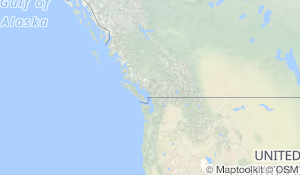
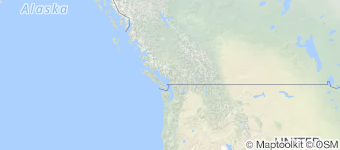
Styling done. Starting window functionalities.

diff --git a/data/styles.css b/data/styles.css
@@ -1,3 +1,5 @@
+/* technically a .qss file not a .css file, but I need the intellisense */
+
 * {
     background-color:#66a1ff;
     color: #2e2e3b;
@@ -19,20 +21,11 @@ QScrollArea QWidget {
     background-color: #f0eff4;
 }
 
-
 QLabel#title {
     background-color: #f0eff4;
     border-radius: 15px;
 }
 
 QLabel#map {
-    padding: 10px;
-    background-color: #f0eff4;
-
-    border-radius: 30px;
-    border: 1px solid;
-}
-
-QLabel#chart {
-    border: 1px solid;
+    padding: 0px;
 }

diff --git a/scripts/main.py b/scripts/main.py
@@ -1,5 +1,6 @@
+import typing
 from PyQt6.QtWidgets import (QWidget, QLabel, QScrollArea, QApplication,
-                             QHBoxLayout, QVBoxLayout, QMainWindow)
+                             QHBoxLayout, QVBoxLayout, QMainWindow, QStackedWidget)
 from PyQt6.QtGui import QFont, QFontDatabase, QImage, QPixmap
 from PyQt6.QtCore import Qt
 import sys
@@ -29,6 +30,8 @@ class ResortsMenuWindow(QMainWindow):
         self.unselected_prefix = "    "
 
         self.create_gui(resorts)
+
+        self.on_scroll_update_resort(0)
 
     def create_gui(self, resorts: list[str]) -> None:
         if sys.platform == 'win32':
@@ -104,6 +107,9 @@ class ResortsMenuWindow(QMainWindow):
 
         return self.resort_labels[resort_index]
     
+    def get_selected_resort(self) -> str:
+        return self.selected_resort.text()[len(self.unselected_prefix):]
+    
 class ResortInfoWindow(QMainWindow):
     def __init__(self):
         super().__init__()
@@ -153,15 +159,31 @@ class ResortInfoWindow(QMainWindow):
         info_panel.addWidget(self.temperature_peak_min)
         info_panel.addWidget(self.temperature_peak_max)
 
-        self.trails_chart = QLabel("Trails")
+        self.trails_label = QLabel("% Trails")
+        self.trails_label.setFont(QFont(self.snowman_font, 20))
+        self.trails_label.setAlignment(Qt.AlignmentFlag.AlignCenter)
+        self.trails_chart = QLabel()
         self.trails_chart.setObjectName("chart")
-        self.trails_chart.setPixmap(QPixmap('data/image.png').scaled(200, 200))
-        self.chairs_chart = QLabel("Lifts")
+        self.trails_chart.setPixmap(QPixmap('data/image.png'))
+        self.trails_chart.setAlignment(Qt.AlignmentFlag.AlignCenter)
+        trails = QVBoxLayout()
+        trails.addWidget(self.trails_label)
+        trails.addWidget(self.trails_chart)
+
+        self.chairs_label = QLabel("% Lifts")
+        self.chairs_label.setFont(QFont(self.snowman_font, 20))
+        self.chairs_label.setAlignment(Qt.AlignmentFlag.AlignCenter)
+        self.chairs_chart = QLabel()
         self.chairs_chart.setObjectName("chart")
-        self.chairs_chart.setPixmap(QPixmap('data/image.png').scaled(200, 200))
+        self.chairs_chart.setPixmap(QPixmap('data/image.png'))
+        self.chairs_chart.setAlignment(Qt.AlignmentFlag.AlignCenter)
+        chairs = QVBoxLayout()
+        chairs.addWidget(self.chairs_label)
+        chairs.addWidget(self.chairs_chart)
+
         charts_hbox = QHBoxLayout()
-        charts_hbox.addWidget(self.trails_chart)
-        charts_hbox.addWidget(self.chairs_chart)
+        charts_hbox.addLayout(trails)
+        charts_hbox.addLayout(chairs)
 
         self.resort_map = QLabel()
         self.resort_map.setObjectName("map")
@@ -183,15 +205,39 @@ class ResortInfoWindow(QMainWindow):
         all_widget = QWidget()
         all_widget.setLayout(all_layout)
         self.setCentralWidget(all_widget)
+
+    def update_info(self, resort):
+        pass
         
+class Screen(QStackedWidget):
+    def __init__(self) -> None:
+        super().__init__()
+
+        self.resorts_menu = ResortsMenuWindow(resorts=resorts)
+        self.resort_info = ResortInfoWindow()
+        self.addWidget(self.resorts_menu)
+        self.addWidget(self.resort_info)
+
+        self.setCurrentWidget(self.resorts_menu)
+
+    def keyPressEvent(self, event):
+        super(Screen, self).keyPressEvent(event)
+
+        if self.currentWidget() is self.resorts_menu:
+            resort = self.resorts_menu.get_selected_resort()
+            self.setCurrentWidget(self.resort_info)
+            self.resort_info.update_info(resort)
+        else:
+            self.setCurrentWidget(self.resorts_menu)
+
+
 if __name__ == '__main__':
     with open('data/favorite_resorts.json') as f:
         resorts = json.load(f)['data']
     
     app = QApplication(sys.argv)
-    # window = ResortsMenuWindow(resorts=resorts)
-    window = ResortInfoWindow()
-    window.show()
 
+    screen = Screen()
+    screen.show()
 
     sys.exit(app.exec())

diff --git a/scripts/pie.py b/scripts/pie.py
@@ -1,3 +1,4 @@
+from PIL import Image
 import requests
 import dotenv
 import os
@@ -6,21 +7,23 @@ dotenv.load_dotenv()
 
 BASE_URI = "https://24hourcharts.p.rapidapi.com/v1/charts/png"
 
+CHART_SIZE = (500, 500)
+
 API_KEYS = [ # multiple so I'm not restricted to only 10 a day
     os.getenv("API_KEY_1"),
     os.getenv("API_KEY_2"),
     os.getenv("API_KEY_3"),
 ]
 
-def request_chart(size: int, percent_open: float):
+def request_chart(percent_open: float, file: str):
     chart_data = {
         "type": 'pie',
         "title": ' ', # f'Lifts: {int(percent_open * 100)}% Open',
         "showLegend": False,
         "datasets": [{ 'values': [f'{percent_open}', f'{1 - percent_open}'] }],
         "output": {
-            "width": size,
-            "height": size
+            "width": CHART_SIZE[0],
+            "height": CHART_SIZE[1]
         }
     }
 
@@ -34,15 +37,38 @@ def request_chart(size: int, percent_open: float):
         response = requests.post(BASE_URI, json=chart_data, headers=headers)
 
         if response.status_code == 200:
-            return response.content
+            with open(file_location, 'wb') as f:
+                f.write(response.content)
+                return
         else:
             print(f'ERROR CODE: { response.status_code }')
 
             # if checked last api key
             if (i == len(API_KEYS) - 1):
                 raise RuntimeError('No valid api keys')
-            
+
+def format_chart(size: tuple[int, int], file_location):
+    pil_image = Image.open(file_location)
+
+    # icky hard coding, but necessary cuz the formatting of the returned image is weird
+    trim_sides = 80
+    pil_image = pil_image.crop((trim_sides, 120, CHART_SIZE[0]-trim_sides, CHART_SIZE[1]-40))
+
+    # make transparent
+    pil_image = pil_image.convert("RGBA")
+    datas = pil_image.getdata()
+    newData = []
+    for item in datas:
+        if item[0] == 255 and item[1] == 255 and item[2] == 255:
+            newData.append((255, 255, 255, 0))
+        else:
+            newData.append(item)
+    pil_image.putdata(newData)
+
+    pil_image = pil_image.resize((size))
+    pil_image.save(file_location, bitmap_format='png')
+
 if __name__ == '__main__':
-    chart_img = request_chart(500, .82)
-    with open('data/image.png', 'wb') as f:
-        f.write(chart_img)
+    file_location = 'data/image.png'
+    request_chart(.32, file_location)
+    format_chart((130, 130), file_location)

diff --git a/scripts/map.py b/scripts/map.py
@@ -45,7 +45,7 @@ if __name__ == '__main__':
     lat = 50.10693
     lon = -122.922073
 
-    map_img = request_map_image(lat, lon, 340, 175)
+    map_img = request_map_image(lat, lon, 340, 150)
     with open('data/map.png', 'wb') as f:
         f.write(map_img)
 
